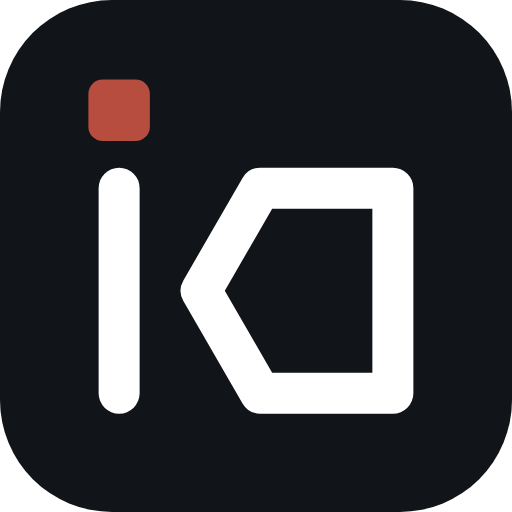
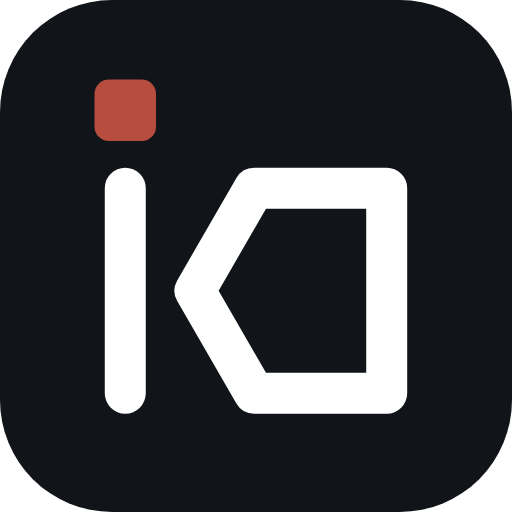
feat: take the standardized Irwin Arruda marks from barro-theme
The wordmark, the ia monogram and the icons are regenerated with the
family's shared spacing rule, so the letters sit a little closer and
the rhythm matches Favo's, Barro's and The Chatbot's logos. The touch
icon is a square tile, because iOS rounds the corners itself.

diff --git a/src/components/terminal-window.tsx b/src/components/terminal-window.tsx
@@ -65,7 +65,7 @@ export function TerminalWindow({
             <Image
               src="/brand/irwin-arruda-light.svg"
               alt="Irwin Arruda"
-              width={142}
+              width={135}
               height={22}
               className="h-5 w-auto sm:h-[22px] dark:hidden"
               priority
@@ -73,7 +73,7 @@ export function TerminalWindow({
             <Image
               src="/brand/irwin-arruda-dark.svg"
               alt="Irwin Arruda"
-              width={142}
+              width={135}
               height={22}
               className="hidden h-5 w-auto sm:h-[22px] dark:block"
               priority

diff --git a/public/brand/README.md b/public/brand/README.md
@@ -1,6 +1,6 @@
 # Brand
 
-The Irwin Arruda logo and icons. They are final: use these files, don't redraw them. The letters are rounded strokes, and the dot of the first `i` is a brick square, `#B64D3F`, the signature.
+The Irwin Arruda logo and icons. They are generated in [barro-theme](https://github.com/irwinarruda/barro-theme/blob/main/BRAND.md), which also documents the lettering and its spacing, and copied here: use these files, don't redraw or edit them. The letters are rounded strokes, and the dot of the first `i` is a brick square, `#B64D3F`, the signature.
 
 A suffix says which background a file is for. `-dark` has light letters, for dark backgrounds. `-light` has dark letters, for light backgrounds. No suffix means mid-gray letters that work on both.
 
@@ -28,7 +28,8 @@ The `ia` monogram in white on a slate rounded tile, keeping the brick dot.
 | ---- | ---------- | ------- |
 | `icon-ia.ico` | 16, 32 and 48 px favicon | Copied to `public/favicon.ico` |
 | `icon-ia.svg` | Scalable favicon | `<link rel="icon" type="image/svg+xml">` |
-| `icon-ia-180.png` | 180 px icon | Apple touch icon |
+| `icon-ia-180.png` | 180 px icon on a square tile, because iOS rounds the corners itself | Apple touch icon |
+| `icon-ia-square.svg` | The square tile | The source of the touch icon |
 | `icon-ia-512.png` | 512 px icon | OpenGraph image |
 
 An alternative tile with just the `i` is kept in the set, and nothing uses it yet: `icon-i.ico`, `icon-i.svg`, `icon-i-180.png` and `icon-i-512.png`.
